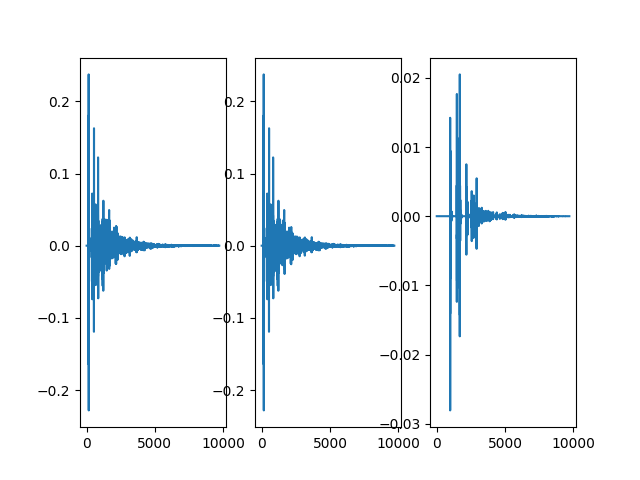
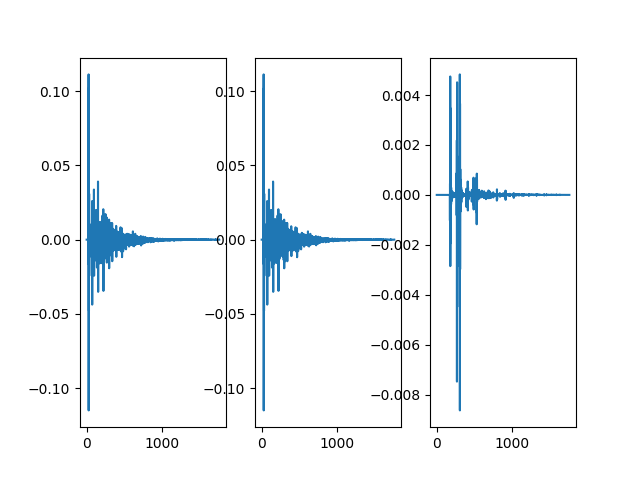
if Fs is not 44100, resample S3D and save it

diff --git a/RoomSimulator/Directivity.py b/RoomSimulator/Directivity.py
@@ -42,10 +42,16 @@ class Directivity(object):
 
         # MIT HRIR Fs=44100, if input Fs is not 44100, resample S3D
         if self.Fs is not None and self.Fs != 44100 and self.S3D.dtype == object:
-            logging.warning(f'resample hrir from 44100 to {self.Fs}')
-            print('resample')
-            for i, j in self.valid_index_all:
-                self.S3D[i, j] = wav_tools.resample(self.S3D[i, j], 44100, self.Fs)
+            resampled_S3D_path = f'{self.direct_dir}/{direct_type}_{self.Fs:.0f}.npy'
+            if not os.path.exists(resampled_S3D_path):
+                logging.warning(f'resample hrir from 44100 to {self.Fs}')
+                print('resample')
+                for i, j in self.valid_index_all:
+                    self.S3D[i, j] = wav_tools.resample(self.S3D[i, j], 44100, self.Fs)
+                np.save(resampled_S3D_path, self.S3D)
+                print(f'sampled S3D is saved to {resampled_S3D_path}')
+            else:
+                self.S3D = np.load(resampled_S3D_path, allow_pickle=True)
 
     @classmethod
     def angle2index(self, angle):

diff --git a/RoomSimulator/utils.py b/RoomSimulator/utils.py
@@ -1,3 +1,4 @@
+import time
 import numpy as np
 import scipy.signal
 import logging
@@ -38,22 +39,14 @@ def filter(b, a, x):
 
 
 class My_Logger(object):
-    def __init__(self, log_path, log_level=logging.INFO):
-        logger = logging.getLogger()
-        os.makedirs(os.path.dirname(log_path), exist_ok=True)
-        file_handler = logging.FileHandler(log_path)
-        logger.addHandler(file_handler)
-        logger.setLevel(log_level)
-        
-        self.logger = logger
-        self.file_handler = file_handler
+    def __init__(self, log_path):
+        self.logger = open(log_path, 'w')
 
     def info(self, log_str):
-        self.logger.info(log_str)
+        self.logger.write(f'{time.ctime()} {log_str} \n')
     
     def warning(self, log_str):
-        self.logger.warning(log_str)
+        self.logger.write(f'{time.ctime()} {log_str} \n')
     
     def close(self):
-        self.logger.removeHandler(self.file_handler)
-        del self.logger
+        self.logger.close()

diff --git a/RoomSimulator/Receiver.py b/RoomSimulator/Receiver.py
@@ -26,7 +26,7 @@ class Mic(object):
         self.tm_room = None
 
     def _load_config(self, config):
-        self.Fs = np.float(config['Fs'])
+        self.Fs = np.int(config['Fs'])
         self.pos = np.asarray([np.float32(item) for item in config['pos'].split(',')])
         self.rotate = np.asarray([np.float32(item) for item in config['rotate'].split(',')])
         self.direct_type = config['direct_type']
@@ -58,7 +58,7 @@ class Receiver(object):
 
     def _load_config(self, config):
         config_receiver = config['Receiver']
-        self.Fs = np.float(config_receiver['Fs'])
+        self.Fs = np.int(config_receiver['Fs'])
         self.pos = np.asarray([np.float32(item) for item in config_receiver['pos'].split(',')])
         self.rotate = np.asarray([np.float32(item) for item in config_receiver['rotate'].split(',')])
         self.n_mic = np.int32(config_receiver['n_mic'])

diff --git a/examples/roomsim_test.py b/examples/roomsim_test.py
@@ -14,8 +14,8 @@ if __name__ == '__main__':
         'size': '4, 4, 4',
         'RT60': ', '.join([f'{item}' for item in np.ones(6) * 0.2]),
         'A': '',
-        'Fs': 44100,
-        'reflect_order': -1,
+        'Fs': 8000,
+        'reflect_order': 10,
         'HP_cutoff': 100}
 
     receiver_config = configparser.ConfigParser()
@@ -44,7 +44,7 @@ if __name__ == '__main__':
         'directivity':'omnidirectional'}
     roomsim.load_source_config(source_config)
     fig, ax = roomsim.show()
-    ax.rotate_init(elev=60, azim=30)
+    ax.view_init(elev=60, azim=30)
     fig.savefig(f'../images/room.png', dpi=200)
     plt.close(fig)
          
